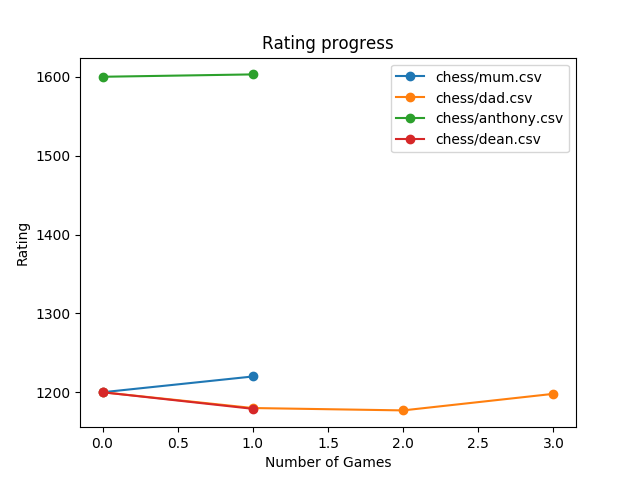
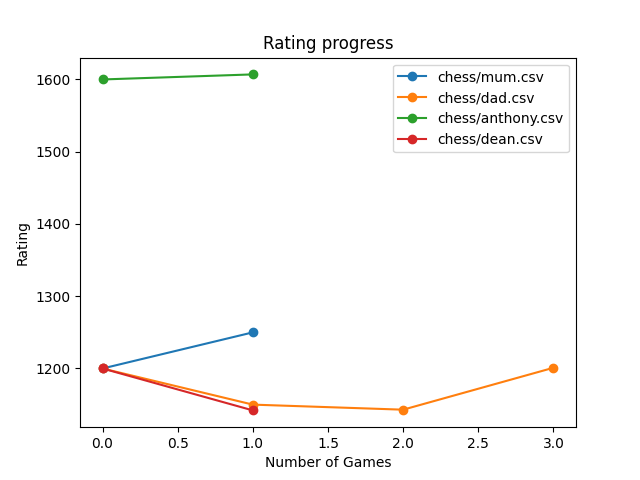
Updated name/environment/readme. - changed k factor - made minimum change 1 point

diff --git a/update.py b/update.py
@@ -3,7 +3,7 @@ import pandas as pd
 from datetime import datetime
 
 def update(rating1, rating2, score):
-    K = 40
+    K = 100
 
     score1 = score
     score2 = 1 - score
@@ -21,8 +21,17 @@ def update(rating1, rating2, score):
         prob_of_1_winning = probabilityOfWeakerPlayerWinning
         prob_of_2_winning = probabilityOfStrongerPlayerWinning
 
-    newRating1 = (score1 - prob_of_1_winning) * K + rating1
-    newRating2 = (score2 - prob_of_2_winning) * K + rating2
+    print("Probability of White winning: {:.5f}".format(prob_of_1_winning))
+    rating_change1 = (score1 - prob_of_1_winning)*K
+    rating_change2 = (score2 - prob_of_2_winning)*K
+
+    if np.abs(rating_change1) < 1:
+        rating_change1 = rating_change1/np.abs(rating_change1)
+    if np.abs(rating_change2) < 1:
+        rating_change2 = rating_change2/np.abs(rating_change2)
+
+    newRating1 = rating1 + rating_change1
+    newRating2 = rating2 + rating_change2
 
     return round(newRating1), round(newRating2)
 

diff --git a/README.md b/README.md
@@ -3,19 +3,19 @@
 
 - To Submit results:
 ```python
-python main.py --game "chess" --player1 "dean" --player2 "dad" --score 0.0
+python3 main.py --game "chess" --player1 "dean" --player2 "dad" --score 0.0
 ```
 where player1 is considered white, and score is the score from perspective of player1 (ie 0.0 means player1 lost).
 
 - To graph rating progression use:
 ```python
-python graph.py "chess/mum.csv" "chess/dad.csv" "chess/anthony.csv" "chess/dean.csv"
+python3 graph.py "chess/mum.csv" "chess/dad.csv" "chess/anthony.csv" "chess/dean.csv"
 ```
 where the resulting graph will be ratings.png.
 
 New games/players can be added via
 ```python
-python new_player.py
+python3 new_player.py
 ```
 where one should first edit the new_player.py specifying which new players are being added and for what game. 
 Each already specified game-player pair shall reset the statistics for that player.
